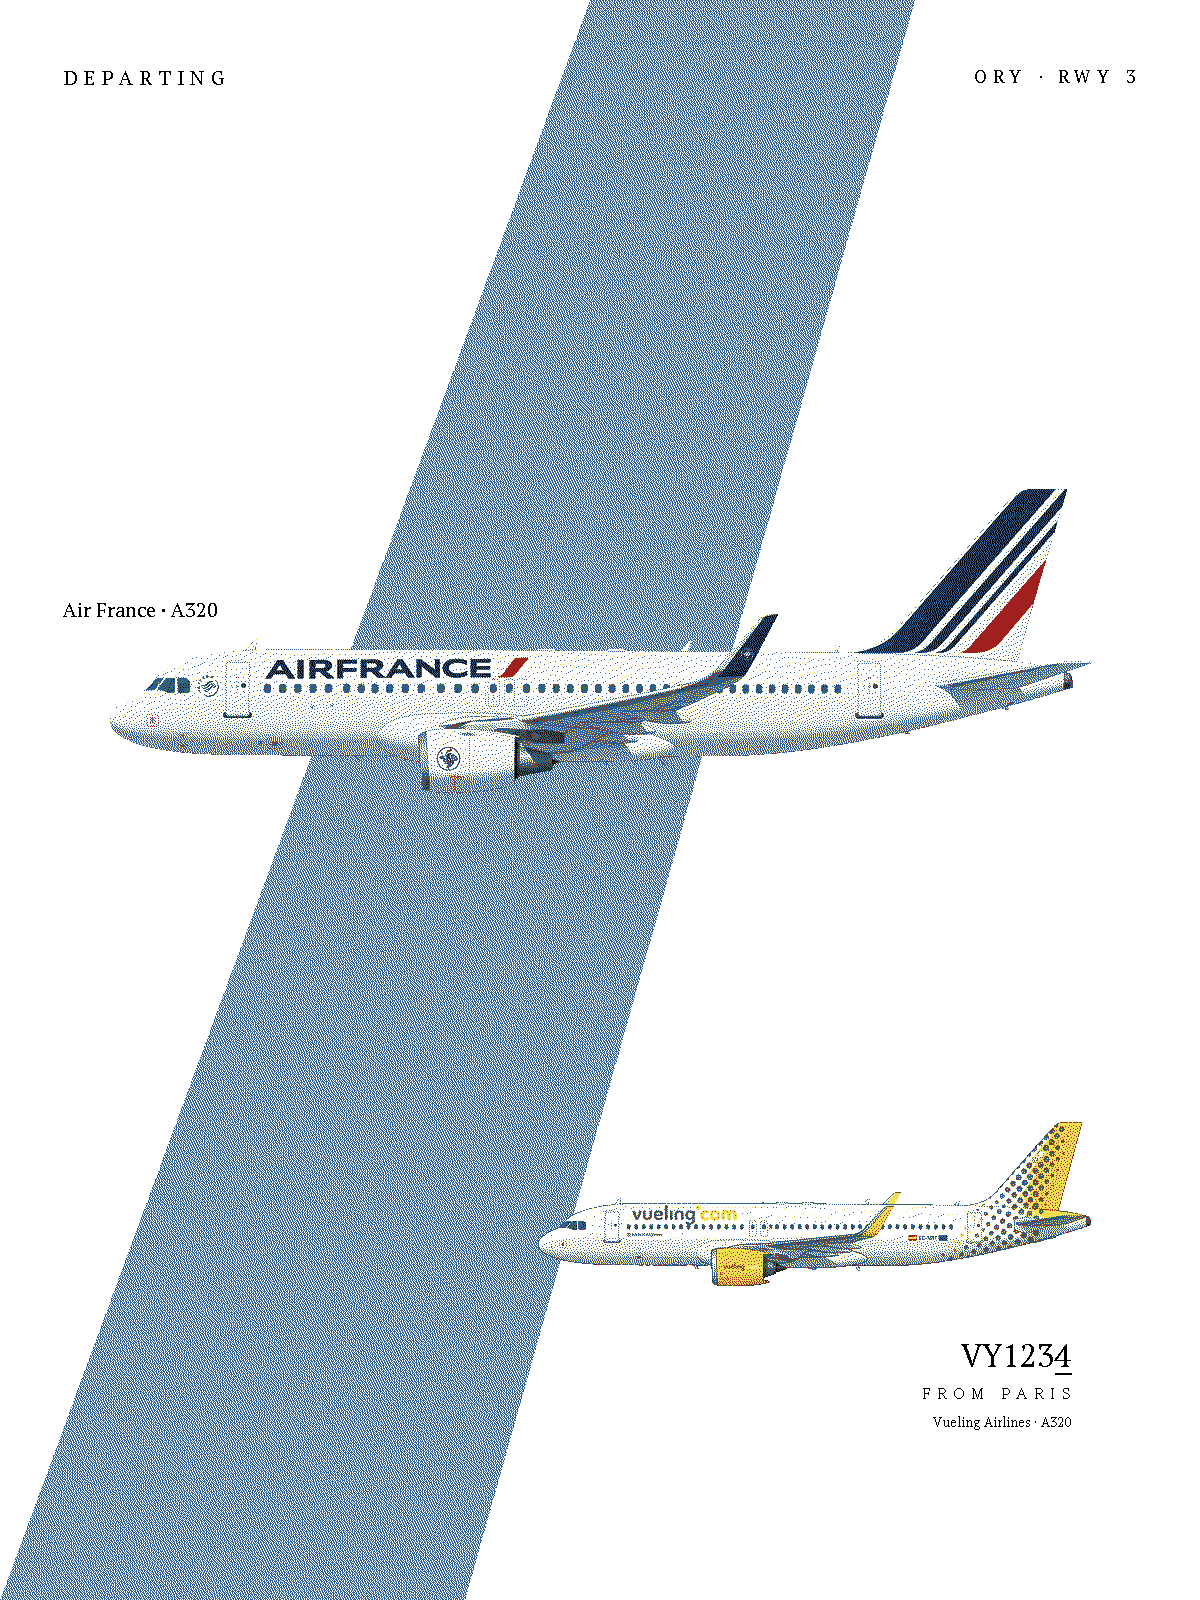
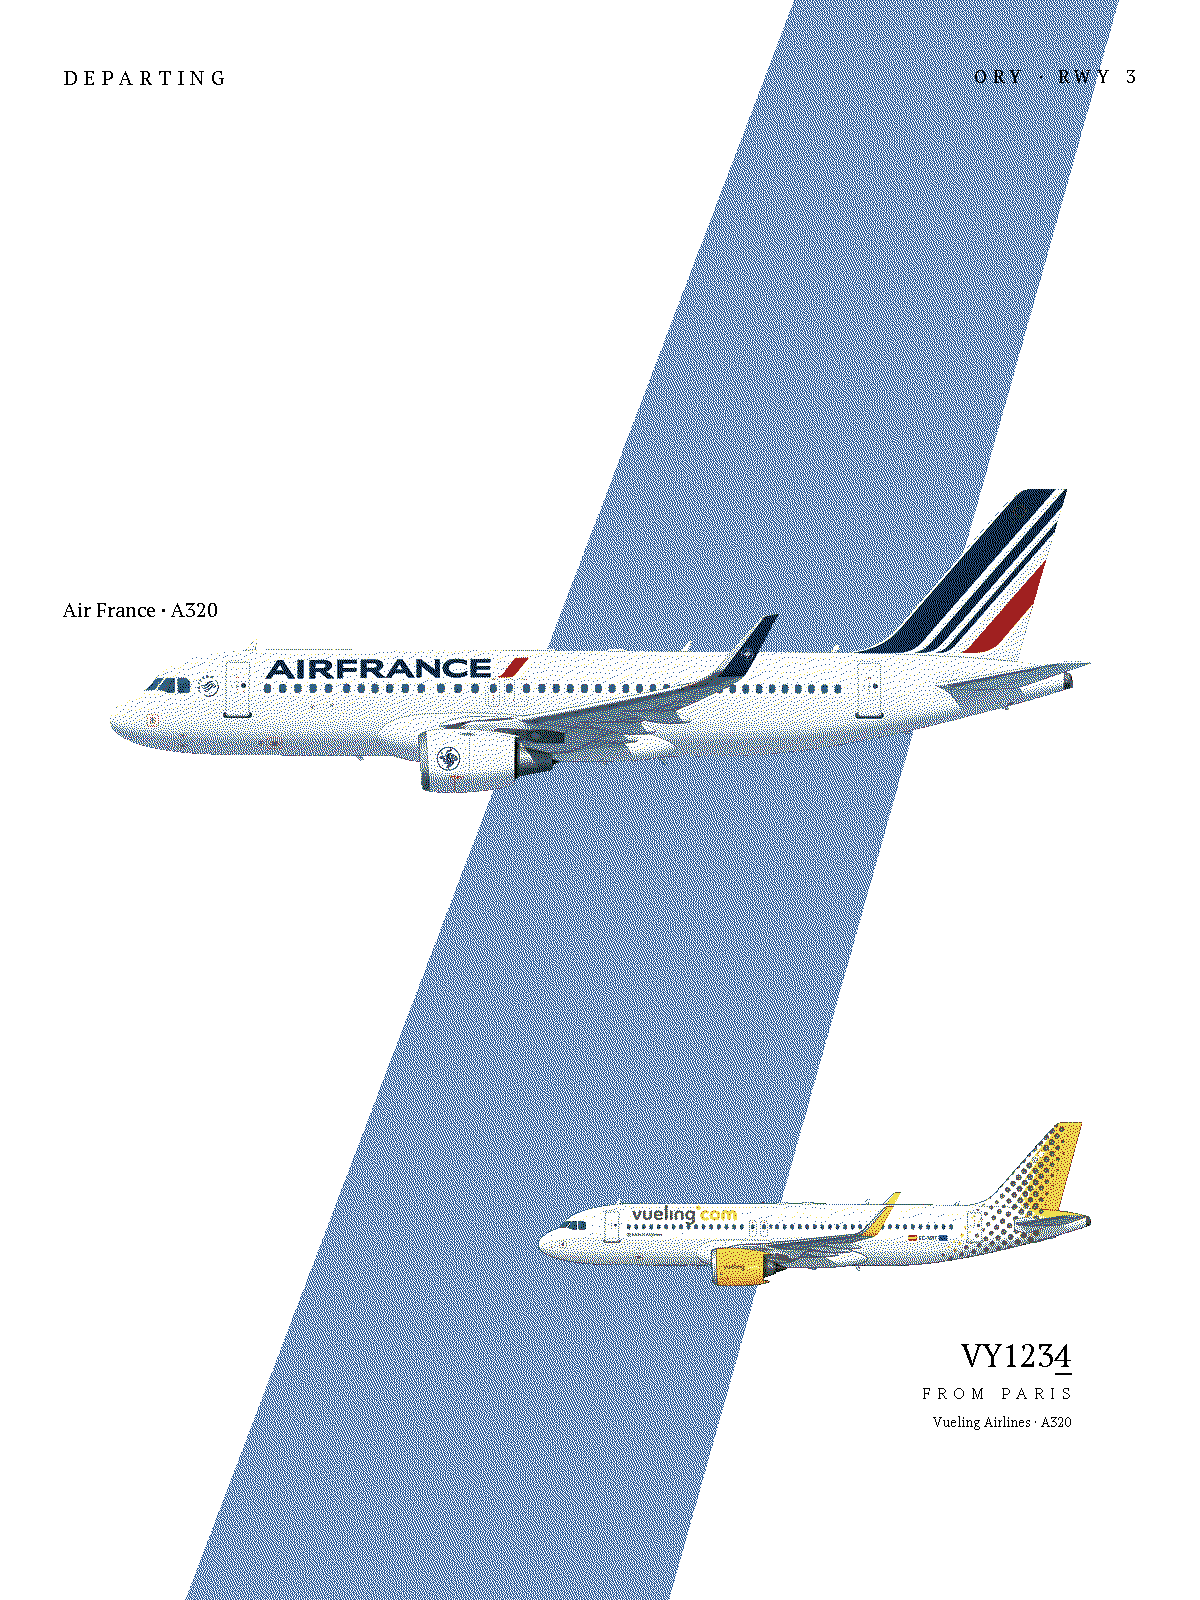
docs(spike-003): merge top labels, shift band right instead of left
Developer's new proposal: instead of shifting the band left to dodge the
runway tag, remove the tag collision's cause entirely by merging it into
the state label ("DEPARTING FROM ORY · RWY 3" / "ARRIVING TO ORY ·
RWY 3"), freeing the top-right corner so the band can shift right
instead - BAND_SHIFT_FRAC flipped from -0.09 to +0.08, past the
reference's own unshifted position. No information lost: RWY 3 survives
merged in. Confirmed the merged string stays well inside the canvas at
both states.

diff --git a/.planning/spikes/003-diagonal-band-theme/explore_full_composition.py b/.planning/spikes/003-diagonal-band-theme/explore_full_composition.py
@@ -64,15 +64,14 @@ TEST_PREV_ROUTE = {
 }
 
 # --- Band geometry, measured from the reference (trapezoid, not a parallelogram) ---
-# Shifted left by BAND_SHIFT_FRAC (developer's fix for the tag collision):
-# our real render's runway tag starts at x_frac=0.8117 (measured via
-# render._tracked_text_width(), not the reference's own 0.8117 - different
-# font/tracking), vs. the unshifted band's top-right edge at 0.8523 - a
-# real ~4pt overlap. Shifting the whole trapezoid left by 0.09 puts the
-# top-right edge at 0.762, a genuine ~5pt margin below the tag's start,
-# while preserving the band's measured width/shape exactly (a pure
-# translation, not a re-derivation).
-BAND_SHIFT_FRAC = -0.09
+# Round 7 (developer's new proposal): merge the top-right runway tag INTO
+# the top-left state label ("DEPARTING FROM ORY · RWY 3") instead of
+# shifting the band away from the tag - once nothing occupies the
+# top-right corner, the band is free to shift back right, further right
+# than the reference's own unshifted position even (BAND_SHIFT_FRAC=0
+# was the as-measured reference position; +0.08 goes past it). Still a
+# pure translation of the measured trapezoid, same width/shape.
+BAND_SHIFT_FRAC = 0.08
 BAND_TOP_LEFT_FRAC = 0.5818 + BAND_SHIFT_FRAC
 BAND_TOP_RIGHT_FRAC = 0.8523 + BAND_SHIFT_FRAC
 BAND_BOT_LEFT_FRAC = max(0.0, 0.0742 + BAND_SHIFT_FRAC)
@@ -104,6 +103,30 @@ def make_patched_new_canvas(band_idx, dithered):
             draw_reference_band(canvas, band_idx, dithered)
         return canvas
     return _patched
+
+
+# --- Round 7: merge the top-right runway tag into the top-left state
+# label - "DEPARTING FROM ORY · RWY 3" / "ARRIVING TO ORY · RWY 3" - so
+# nothing occupies the top-right corner and the band can shift right
+# without any collision to avoid there. Reuses the real
+# runway_tag_text()/STATE_LABEL_TEXT/draw_tracked_text()/LABEL_TRACKING_PX
+# - only the two separate strings become one, and only one run is drawn.
+_MERGED_LABEL_DIRECTION = {
+    render.runway_config.STATE_DEPARTING: "FROM",
+    render.runway_config.STATE_ARRIVING: "TO",
+}
+
+
+def patched_draw_top_labels(canvas, state, ink_idx, bg_idx, weight, runway_id=None):
+    if runway_id is None:
+        runway_id = render.device_config.DEFAULT_RUNWAY_ID
+    draw = ImageDraw.Draw(canvas)
+    label_font = render._role_font(render.STATE_LABEL_FONT, weight)
+    direction = _MERGED_LABEL_DIRECTION[state]
+    tag_text = render.runway_tag_text(runway_id)
+    merged_text = "%s %s %s" % (render.STATE_LABEL_TEXT[state], direction, tag_text)
+    render.draw_tracked_text(draw, (render.MARGIN, render.MARGIN), merged_text, label_font, ink_idx, render.LABEL_TRACKING_PX)
+    # No right-side tag drawn at all - the top-right corner is free.
 
 
 # --- Text hierarchy, left-anchored, reference-inspired presentation over
@@ -316,6 +339,7 @@ def patched_draw_previous_text_block(canvas, flight, state, route, prev_placemen
 def main():
     orig_draw_main_text_block = render.draw_main_text_block
     orig_draw_previous_text_block = render.draw_previous_text_block
+    orig_draw_top_labels = render.draw_top_labels
     candidates = [
         ("ref-band-blue-dithered", pf.IDX_BLUE, True),
         ("ref-band-blue-flat", pf.IDX_BLUE, False),
@@ -326,6 +350,7 @@ def main():
     try:
         render.draw_main_text_block = patched_draw_main_text_block
         render.draw_previous_text_block = patched_draw_previous_text_block
+        render.draw_top_labels = patched_draw_top_labels
         for label, band_idx, dithered in candidates:
             pf.new_canvas = make_patched_new_canvas(band_idx, dithered)
             canvas = render.build_canvas(
@@ -345,6 +370,7 @@ def main():
     finally:
         render.draw_main_text_block = orig_draw_main_text_block
         render.draw_previous_text_block = orig_draw_previous_text_block
+        render.draw_top_labels = orig_draw_top_labels
         pf.new_canvas = _TRUE_ORIG_NEW_CANVAS
 
 

diff --git a/.planning/spikes/003-diagonal-band-theme/README.md b/.planning/spikes/003-diagonal-band-theme/README.md
@@ -9,7 +9,7 @@ validates: |
   build_canvas() pipeline, then at least one reads well on a 6-colour
   e-ink panel, passes the real _assert_legal_palette() background-
   dominance guard rail, and does not collide with any text.
-verdict: PENDING - round 6 extends the three-level hierarchy to the previous card (right-aligned, ~57% scale, position unchanged), awaiting developer reaction
+verdict: PENDING - round 7 merges the top labels and shifts the band right instead of left, awaiting developer reaction
 related: ["001-panel-theme-colours", "002-small-labels-and-white-rhythm"]
 tags: [render, theme, diagonal-band, layout, e-ink, palette-guard-rail]
 ---
@@ -266,6 +266,24 @@ the main card, the shifted band never reaches this far right at this
 card's height (checked: band's rightmost extent here is ~45% width,
 this card's text sits at ~89% width), so there's no collision to dodge
 and no reason to also flip it above its own aircraft.
+
+**Round 7 - merge the top labels, free the band to shift right
+(developer's new proposal).** Instead of shifting the band away from the
+runway tag (round 3's fix), the developer proposed removing the
+collision's cause entirely: merge the top-right tag into the top-left
+state label - "DEPARTING FROM ORY · RWY 3" / "ARRIVING TO ORY · RWY 3" -
+so nothing occupies the top-right corner and the band can shift right
+instead of left. `BAND_SHIFT_FRAC` flipped from `-0.09` to `+0.08` (past
+the reference's own as-measured, unshifted position). New
+`patched_draw_top_labels()` reuses `runway_tag_text()`/
+`STATE_LABEL_TEXT`/`draw_tracked_text()`/`LABEL_TRACKING_PX` verbatim -
+only the two separate strings become one, drawn as a single tracked run,
+no right-side draw call at all. Confirmed the merged string stays
+comfortably inside the canvas at both states (departing: 446px wide,
+ending at x=510 vs. the 1136px safe-box edge; arriving: 383px). No
+information lost - the developer's explicit call from earlier this
+session (D-13 precedent: no info drops silently) is upheld, "RWY 3"
+survives merged in, not removed.
 
 **Still open:**
 - This entire spike is screen-preview only, per this project's own D-13
